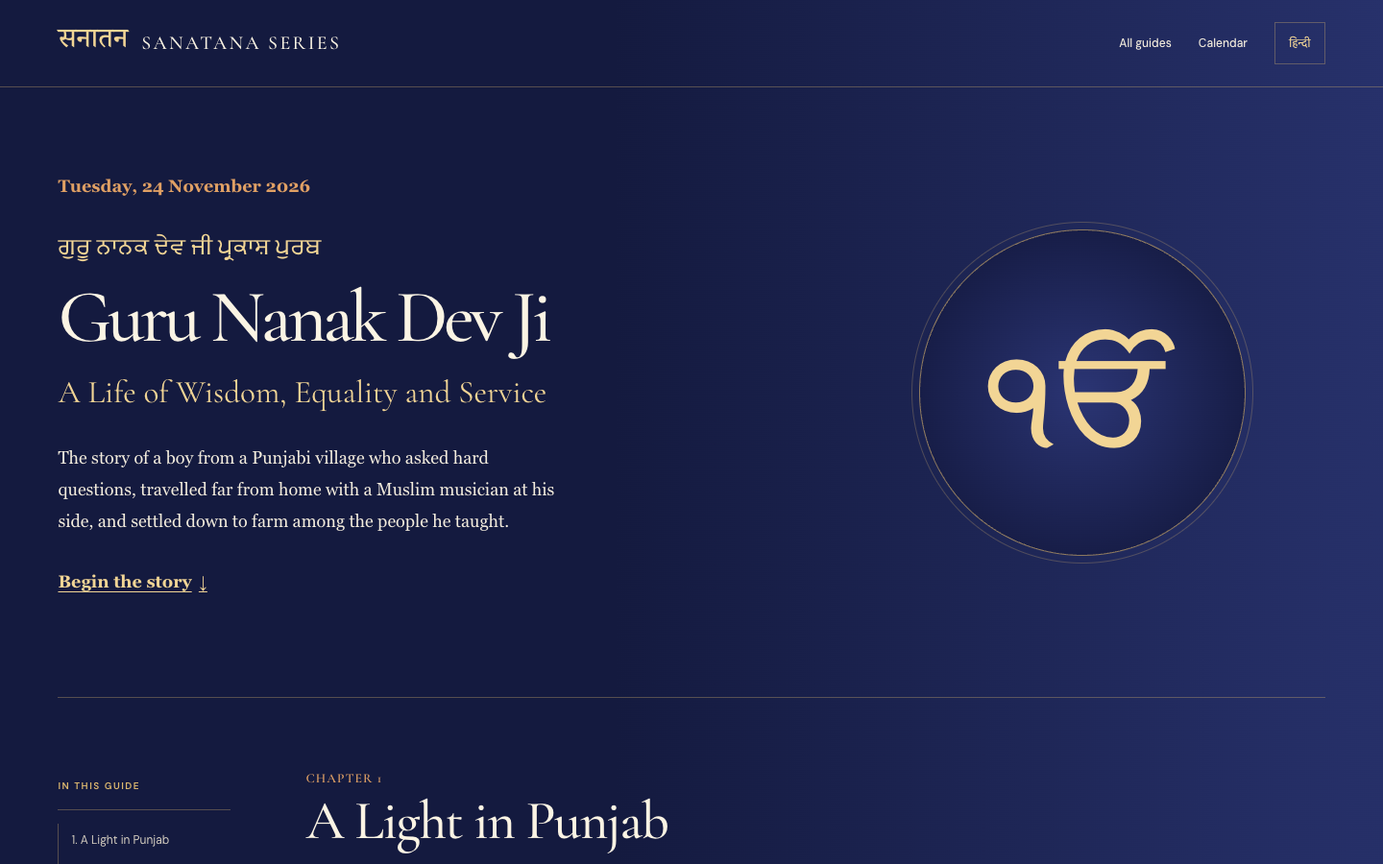
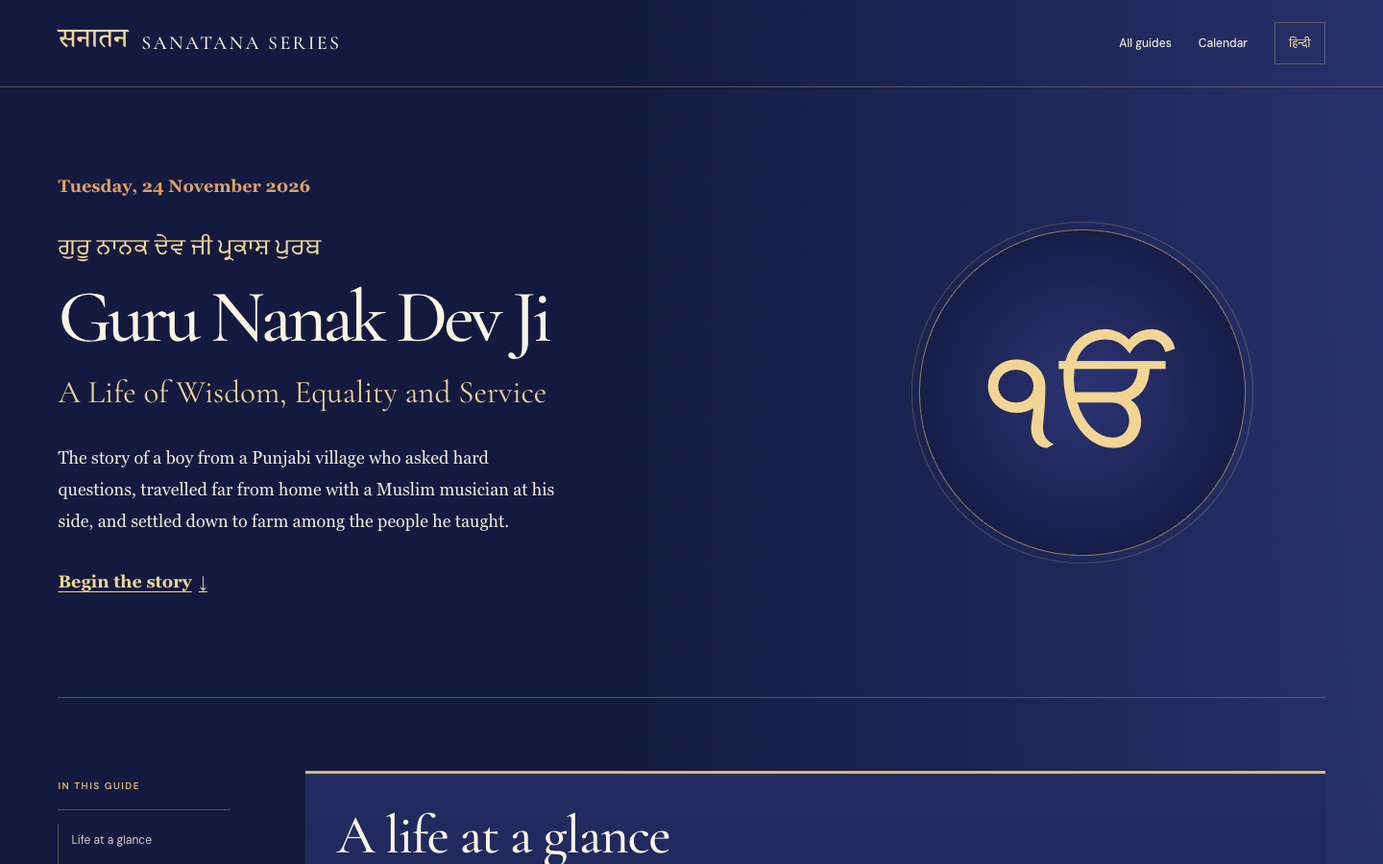
Move a visual timeline to the top of the Guru Nanak guide
Show the life and legacy as a linked journey in both editions, with
firm and approximate dates marked. Add a prompt pack for the guide's
twelve illustrations and social preview image.

Changed region(s): [[0.2188, 0.8711, 0.9375, 1.0], [0.0625, 0.9644, 0.125, 0.9956]]

diff --git a/guru-nanak-gurpurab-hi.html b/guru-nanak-gurpurab-hi.html
@@ -48,6 +48,7 @@
       <details class="toc-disclosure" open>
         <summary><span>इस गाइड में</span><span class="toc-toggle" aria-hidden="true">+</span></summary>
         <nav class="toc-links" aria-label="लेख की सामग्री">
+          <a href="#timeline">एक नज़र में जीवन</a>
           <a href="#light">1. पंजाब में एक प्रकाश</a>
           <a href="#questions">2. सवालों भरा बचपन</a>
           <a href="#sacha-sauda">3. सच्चा सौदा</a>
@@ -58,7 +59,6 @@
           <a href="#granth">8. श्री गुरु ग्रंथ साहिब जी</a>
           <a href="#gurpurab">9. गुरपुरब कैसे मनाते हैं</a>
           <a href="#legacy">10. जीवित विरासत</a>
-          <a href="#timeline">समयरेखा</a>
           <a href="#glossary">शब्दावली</a>
           <a href="#sources">स्रोत</a>
           <a href="#about">इस गाइड के बारे में</a>
@@ -66,6 +66,31 @@
       </details>
     </aside>
     <main id="content" tabindex="-1">
+<section class="chapter nanak-glance" id="timeline">
+  <h2>एक नज़र में जीवन</h2>
+  <p>पंजाब के एक गाँव से शाश्वत गुरु तक की यात्रा देखिए। किसी भी पड़ाव को चुनकर उसका अध्याय पढ़ें।</p>
+  <div class="nanak-eras">
+    <div class="nanak-era">
+      <h3>उनका जीवनकाल · 1469–1539</h3>
+      <ol class="nanak-stops">
+        <li class="nanak-stop"><a href="#light"><b>1469</b><strong>तलवंडी में जन्म</strong><span>आज का ननकाना साहिब</span></a></li>
+        <li class="nanak-stop is-approx"><a href="#sultanpur"><b>लगभग 1490 का दशक</b><strong>सुल्तानपुर लोधी</strong><span>काम, परिवार और बेईं नदी, परंपरा के अनुसार लगभग 1499–1500</span></a></li>
+        <li class="nanak-stop is-approx"><a href="#journeys"><b>लगभग 1500–1520 का दशक</b><strong>उदासियाँ</strong><span>भाई मरदाना के साथ महान यात्राएँ</span></a></li>
+        <li class="nanak-stop is-approx"><a href="#kartarpur"><b>लगभग 1520 का दशक</b><strong>करतारपुर</strong><span>रावी के किनारे खेती, संगत और लंगर</span></a></li>
+        <li class="nanak-stop"><a href="#kartarpur"><b>1539</b><strong>गुरु अंगद देव जी</strong><span>उत्तराधिकारी बने। सितंबर में गुरु नानक ज्योति-जोत समाए</span></a></li>
+      </ol>
+    </div>
+    <div class="nanak-era is-after">
+      <h3>उनके बाद</h3>
+      <ol class="nanak-stops">
+        <li class="nanak-stop"><a href="#granth"><b>1604</b><strong>आदि ग्रंथ</strong><span>गुरु अर्जन देव जी ने पूरा किया</span></a></li>
+        <li class="nanak-stop"><a href="#granth"><b>1708</b><strong>शाश्वत गुरु</strong><span>नांदेड़ में गुरुता सौंपी गई</span></a></li>
+      </ol>
+    </div>
+  </div>
+  <p class="nanak-legend" aria-label="समयरेखा की कुंजी"><span class="is-firm">पक्की तिथि</span> <span class="is-approx">अनुमानित, बाद की परंपरा से</span></p>
+</section>
+
 <section class="chapter" id="light">
   <h2><span class="chapter-number">अध्याय 1</span>पंजाब में एक प्रकाश</h2>
   <figure class="nanak-plate"><div class="nanak-pending"><b>चित्र प्रतीक्षित · चित्र 1</b><strong>गुरु नानक देव जी</strong><span>यह स्थान एक गरिमामय और श्रद्धापूर्ण चित्र के लिए सुरक्षित है, जो संपादकीय स्वीकृति के बाद ही लगेगा।</span></div></figure>
@@ -247,19 +272,6 @@
   <p>पाँच सदियाँ बीत गईं, पर करतारपुर की वह पंक्ति कभी सचमुच टूटी नहीं। वह आज भी पंजाब, ब्रिटेन, कनाडा, मलेशिया, केन्या और उससे भी दूर गुरुद्वारों की रसोइयों में हर दिन बैठती है। जब बाढ़, भूकंप या आंदोलन लोगों को भूखा छोड़ देते हैं, तो आटे और पतीलों के साथ सबसे पहले पहुँचने वालों में अक्सर सिख सेवादार होते हैं। वे वही कर रहे होते हैं जो कथा के अनुसार उनके पहले गुरु ने बीस रुपयों से किया था, और जो उनके समुदाय की स्मृति के अनुसार उन्होंने करतारपुर में बरसों तक किया।</p>
   <p>उनके सवाल भी ज़्यादा पुराने नहीं पड़े। हम आज भी लोगों को जन्म, धर्म और पैसे से छाँटते हैं। आज भी सोचते हैं कि दिन भर का असली मुनाफ़ा क्या है। आज भी ऐसे पड़ोसियों के बीच रहते हैं जिनसे दूर रहना हमें सिखाया गया है। गुरु नानक का उत्तर केवल एक विचार नहीं था। वह रोज़ के जीवन की एक व्यवस्था थी: ईमानदारी से कमाओ, उस एक को याद रखो, और जो भी आ जाए उसके साथ बैठकर खाओ।</p>
   <p>गुरपुरब की शाम दीये जलते हैं और देर तक शबद गूँजते हैं। अगली सुबह गुरुद्वारे की रसोई में कोई फिर भोर से पहले उठेगा, और जो भी उस दरवाज़े से आएगा, उसके लिए आटा गूँथने लगेगा।</p>
-</section>
-
-<section class="chapter" id="timeline">
-  <h2>संक्षिप्त समयरेखा</h2>
-  <ol class="nanak-timeline">
-    <li><b>1469</b><span>राय भोई दी तलवंडी, आज के ननकाना साहिब, में गुरु नानक का जन्म।</span></li>
-    <li><b>लगभग 1490 का दशक</b><span>सुल्तानपुर लोधी में जीवन और काम। परंपरा के अनुसार लगभग 1499–1500 में बेईं नदी का अनुभव। तिथियाँ अलग-अलग मिलती हैं।</span></li>
-    <li><b>लगभग 1500–1520 का दशक</b><span>उदासियाँ। इनके मार्ग और तिथियाँ मुख्यतः बाद की परंपरा से मिलती हैं।</span></li>
-    <li><b>लगभग 1520 का दशक</b><span>रावी के किनारे करतारपुर में बसना। वर्ष के बारे में स्रोत अलग-अलग हैं।</span></li>
-    <li><b>1539</b><span>गुरु अंगद देव जी उत्तराधिकारी बने। सितंबर में करतारपुर में गुरु नानक देव जी ज्योति-जोत समाए।</span></li>
-    <li><b>1604</b><span>गुरु अर्जन देव जी ने आदि ग्रंथ का संकलन पूरा किया।</span></li>
-    <li><b>1708</b><span>गुरु गोबिंद सिंह जी ने नांदेड़ में श्री गुरु ग्रंथ साहिब जी को शाश्वत गुरुता सौंपी।</span></li>
-  </ol>
 </section>
 
 <section class="chapter" id="glossary">

diff --git a/guru-nanak-gurpurab.html b/guru-nanak-gurpurab.html
@@ -48,6 +48,7 @@
       <details class="toc-disclosure" open>
         <summary><span>In this guide</span><span class="toc-toggle" aria-hidden="true">+</span></summary>
         <nav class="toc-links" aria-label="Article contents">
+          <a href="#timeline">Life at a glance</a>
           <a href="#light">1. A Light in Punjab</a>
           <a href="#questions">2. A Childhood of Questions</a>
           <a href="#sacha-sauda">3. The True Bargain</a>
@@ -58,7 +59,6 @@
           <a href="#granth">8. Sri Guru Granth Sahib Ji</a>
           <a href="#gurpurab">9. How Gurpurab Is Celebrated</a>
           <a href="#legacy">10. The Living Legacy</a>
-          <a href="#timeline">Timeline</a>
           <a href="#glossary">Glossary</a>
           <a href="#sources">Sources</a>
           <a href="#about">About this guide</a>
@@ -66,6 +66,31 @@
       </details>
     </aside>
     <main id="content" tabindex="-1">
+<section class="chapter nanak-glance" id="timeline">
+  <h2>A life at a glance</h2>
+  <p>Follow the journey from a Punjabi village to an eternal Guru. Select any stop to read its chapter.</p>
+  <div class="nanak-eras">
+    <div class="nanak-era">
+      <h3>His lifetime · 1469–1539</h3>
+      <ol class="nanak-stops">
+        <li class="nanak-stop"><a href="#light"><b>1469</b><strong>Birth at Talwandi</strong><span>Now Nankana Sahib</span></a></li>
+        <li class="nanak-stop is-approx"><a href="#sultanpur"><b>c. 1490s</b><strong>Sultanpur Lodhi</strong><span>Work, family, and the Bein River, by tradition c. 1499–1500</span></a></li>
+        <li class="nanak-stop is-approx"><a href="#journeys"><b>c. 1500–1520s</b><strong>The Udasis</strong><span>Great journeys with Bhai Mardana</span></a></li>
+        <li class="nanak-stop is-approx"><a href="#kartarpur"><b>c. 1520s</b><strong>Kartarpur</strong><span>Farming, sangat and langar on the Ravi</span></a></li>
+        <li class="nanak-stop"><a href="#kartarpur"><b>1539</b><strong>Guru Angad Dev Ji</strong><span>Named successor. Guru Nanak dies in September</span></a></li>
+      </ol>
+    </div>
+    <div class="nanak-era is-after">
+      <h3>After him</h3>
+      <ol class="nanak-stops">
+        <li class="nanak-stop"><a href="#granth"><b>1604</b><strong>Adi Granth</strong><span>Completed by Guru Arjan Dev Ji</span></a></li>
+        <li class="nanak-stop"><a href="#granth"><b>1708</b><strong>The Eternal Guru</strong><span>Guruship conferred at Nanded</span></a></li>
+      </ol>
+    </div>
+  </div>
+  <p class="nanak-legend" aria-label="Timeline key"><span class="is-firm">Firmly dated</span> <span class="is-approx">Approximate, from later tradition</span></p>
+</section>
+
 <section class="chapter" id="light">
   <h2><span class="chapter-number">Chapter 1</span>A Light in Punjab</h2>
   <figure class="nanak-plate"><div class="nanak-pending"><b>ILLUSTRATION PENDING · PLATE 1</b><strong>Guru Nanak Dev Ji</strong><span>A dignified, reverent portrait is reserved for this space, subject to editorial approval.</span></div></figure>
@@ -244,19 +269,6 @@
   <p>Five centuries on, the row at Kartarpur has never really ended. It continues every day in gurdwara kitchens across Punjab, Britain, Canada, Malaysia, Kenya and well beyond. When floods, earthquakes or protests leave people hungry, Sikh volunteers are often among the first to arrive with pots and flour. They are doing what their first Guru did with twenty rupees, according to the story, and what he did for years at Kartarpur, according to the memory of his community.</p>
   <p>His questions have not aged much either. We still sort people by birth, by faith, and by money. We still wonder what counts as a good day’s profit. We still live among neighbours we have been taught to keep at a distance. Guru Nanak’s response was never only an idea. It was an arrangement of daily life: earn honestly, remember the One, and sit down to eat with whoever has come.</p>
   <p>On the evening of Gurpurab, lamps are lit and the hymns go on late. The next morning, someone in the gurdwara kitchen will be up before dawn again, kneading the flour for whoever comes through the door.</p>
-</section>
-
-<section class="chapter" id="timeline">
-  <h2>A short timeline</h2>
-  <ol class="nanak-timeline">
-    <li><b>1469</b><span>Birth of Guru Nanak at Rai Bhoi di Talwandi, now Nankana Sahib.</span></li>
-    <li><b>c. 1490s</b><span>Life and work at Sultanpur Lodhi. The Bein River experience follows, by tradition around 1499–1500. Dates vary.</span></li>
-    <li><b>c. 1500–1520s</b><span>The Udasis. Their routes and dates come largely from later tradition.</span></li>
-    <li><b>c. 1520s</b><span>Settlement at Kartarpur on the Ravi. Sources differ on the year.</span></li>
-    <li><b>1539</b><span>Guru Angad Dev Ji named successor. Guru Nanak Dev Ji dies at Kartarpur in September.</span></li>
-    <li><b>1604</b><span>Guru Arjan Dev Ji completes the Adi Granth.</span></li>
-    <li><b>1708</b><span>Guru Gobind Singh Ji confers eternal Guruship on Sri Guru Granth Sahib Ji at Nanded.</span></li>
-  </ol>
 </section>
 
 <section class="chapter" id="glossary">

diff --git a/guru-nanak-gurpurab.css b/guru-nanak-gurpurab.css
@@ -160,15 +160,83 @@
 .guide-nanak.hi .nanak-pending strong { font-family: var(--hindi); line-height: 1.55; }
 .guide-nanak .nanak-pending span { max-width: 62ch; color: var(--muted); font-size: .95rem; }
 
-.guide-nanak .nanak-timeline { display: grid; gap: 0; margin: 1.3rem 0; padding: 0; list-style: none; }
-.guide-nanak .nanak-timeline li {
-  display: grid;
-  grid-template-columns: 7.5rem minmax(0, 1fr);
-  gap: 1rem;
-  padding: .7rem 0;
-  border-bottom: 1px solid var(--line);
+/* Visual timeline: a vertical path on small screens, a horizontal journey on wide ones. */
+.guide-nanak .nanak-glance {
+  padding: clamp(1.2rem, 3vw, 2rem);
+  background: linear-gradient(180deg, #222c62 0%, #182049 100%);
+  border-block-start: 3px solid var(--gold);
 }
-.guide-nanak .nanak-timeline b { color: var(--gold-light); }
+.guide-nanak .nanak-eras { display: grid; gap: 1.5rem; margin-top: 1.4rem; }
+.guide-nanak .chapter .nanak-era h3 {
+  margin: 0 0 .8rem;
+  color: var(--saffron);
+  font: 700 .95rem/1.4 var(--ui, inherit);
+}
+.guide-nanak .nanak-stops { position: relative; display: grid; margin: 0; padding: 0; list-style: none; }
+.guide-nanak .nanak-stops::before {
+  content: "";
+  position: absolute;
+  inset: .7rem auto .7rem .55rem;
+  border-inline-start: 2px solid var(--gold);
+}
+.guide-nanak .is-after .nanak-stops::before { border-inline-start-style: dashed; }
+.guide-nanak .nanak-stop { position: relative; margin: 0; padding: 0; }
+.guide-nanak .nanak-stop::marker { content: ""; }
+.guide-nanak .nanak-stop a {
+  display: grid;
+  gap: .08rem;
+  min-height: 44px;
+  padding: .55rem .6rem .7rem 2.2rem;
+  color: var(--text);
+  text-decoration: none;
+  overflow-wrap: normal;
+}
+.guide-nanak .chapter .nanak-stop a { text-decoration: none; }
+.guide-nanak .nanak-stop a:hover { background: #ffffff12; }
+.guide-nanak .chapter .nanak-stop a:hover strong { text-decoration: underline; text-underline-offset: .18em; }
+.guide-nanak .nanak-stop a::before {
+  content: "";
+  position: absolute;
+  top: .78rem;
+  left: .15rem;
+  width: .95rem;
+  height: .95rem;
+  background: var(--gold-light);
+  border: 2px solid var(--gold-light);
+  border-radius: 50%;
+  box-shadow: 0 0 0 4px #1d2658;
+}
+.guide-nanak .nanak-stop.is-approx a::before { background: #1d2658; }
+.guide-nanak .nanak-stop b { color: var(--gold-light); font-size: 1.02rem; line-height: 1.4; }
+.guide-nanak .nanak-stop strong { color: var(--ivory); font-size: 1.05rem; line-height: 1.35; }
+.guide-nanak .nanak-stop span { color: var(--muted); font-size: .92rem; line-height: 1.45; }
+.guide-nanak .nanak-legend { display: flex; flex-wrap: wrap; gap: .4rem 1.4rem; margin: 1.2rem 0 0; color: var(--muted); font-size: .9rem; }
+.guide-nanak .nanak-legend span { display: inline-flex; align-items: center; gap: .45rem; }
+.guide-nanak .nanak-legend span::before {
+  content: "";
+  width: .75rem;
+  height: .75rem;
+  border: 2px solid var(--gold-light);
+  border-radius: 50%;
+}
+.guide-nanak .nanak-legend .is-firm::before { background: var(--gold-light); }
+
+@media (min-width: 1180px) {
+  .guide-nanak .nanak-eras { grid-template-columns: minmax(0, 5fr) minmax(0, 2fr); gap: .9rem; }
+  .guide-nanak .nanak-era .nanak-stops { grid-template-columns: repeat(5, minmax(0, 1fr)); }
+  .guide-nanak .nanak-era.is-after .nanak-stops { grid-template-columns: repeat(2, minmax(0, 1fr)); }
+  .guide-nanak .nanak-stops::before {
+    inset: .55rem 0 auto 0;
+    border-inline-start: 0;
+    border-block-start: 2px solid var(--gold);
+  }
+  .guide-nanak .is-after .nanak-stops::before { border-inline-start: 0; border-block-start-style: dashed; }
+  .guide-nanak .nanak-stop a { height: 100%; align-content: start; padding: 1.8rem .55rem .7rem .15rem; }
+  .guide-nanak .nanak-stop a::before { top: .12rem; left: .15rem; }
+  .guide-nanak .nanak-stop b { font-size: .95rem; }
+  .guide-nanak .nanak-stop strong { font-size: 1rem; }
+  .guide-nanak .nanak-stop span { font-size: .86rem; }
+}
 
 .guide-nanak .nanak-glossary { display: grid; grid-template-columns: repeat(2, minmax(0, 1fr)); gap: .3rem 1.6rem; }
 .guide-nanak .nanak-glossary div { padding: .6rem 0; border-bottom: 1px solid var(--line); }
@@ -180,7 +248,6 @@
   .guide-nanak .nanak-keys,
   .guide-nanak .nanak-glossary { grid-template-columns: 1fr; }
   .guide-nanak .nanak-emblem { max-width: 190px; font-size: 5.6rem; order: -1; }
-  .guide-nanak .nanak-timeline li { grid-template-columns: 1fr; gap: .1rem; }
   .guide-nanak .navlinks a { min-height: 44px; }
 }
 

diff --git a/docs/guru-nanak-gurpurab/image-prompt-pack.md b/docs/guru-nanak-gurpurab/image-prompt-pack.md
@@ -1,0 +1,119 @@
+# Guru Nanak Dev Ji: image prompt pack
+
+Thirteen ready-to-paste prompts: 12 guide illustrations and 1 social preview image.
+
+## How to use this pack
+
+1. Generate one image at a time, in **landscape 3:2**. Image 13 is **wide, about 1.91:1**.
+2. Paste the finished image into the chat and say which number it is, for example "Image 5".
+3. I will inspect it, optimise it, place it in both editions and write its English and Hindi alt text.
+
+**The Guru's face:** these prompts follow the respectful default of not showing Guru Nanak Dev Ji's face, because many Sikhs object to depicting the Gurus. He appears only from behind or at a distance in Images 1, 3, 5 and 6.
+
+**Reject an image if it has:** any writing or fake Gurmukhi, a visible face for the Guru, a halo, a Hindu or Islamic symbol, temple architecture, modern objects, distorted hands, or a Khanda or Khalsa dress in Images 1 to 8.
+
+---
+
+## Image 1: Guru Nanak Dev Ji
+
+`portrait` · Chapter 1
+
+```text
+A reverent heritage painting of Guru Nanak Dev Ji seen entirely from behind, an elderly bearded teacher with white hair beneath a simple plain cloth head-wrap, wearing a long undyed cotton robe and a plain shawl, standing still at the edge of a quiet Punjabi field at first light, looking toward a wide glowing horizon. His face is not visible at all. Calm, humble and contemplative mood, generous empty sky, early morning mist over the wheat. Refined painting in the spirit of early Punjab manuscript and miniature art, gouache and natural pigments on handmade ivory wasli paper, fine brushwork, soft atmospheric light, restrained palette of ivory, deep indigo, muted saffron and warm gold. Landscape 3:2. No visible face, no halo or glowing aura around the figure. No text, letters, numerals, script, signature, watermark, logo or border. No deities, temples, Om, lotus, crescent, Khanda or other religious symbols. No comic-book, anime, cartoon, 3D or photographic look.
+```
+
+## Image 2: Early Punjab and Talwandi
+
+`talwandi` · Chapter 1
+
+```text
+A fifteenth-century village in the flat plains of Punjab at first light, low mud-brick homes with flat roofs and plastered walls, a brick-lined village well, a bullock resting by a cart, fields of young wheat, a line of shisham and kikar trees, thin smoke rising from a cooking fire, two tiny villagers walking in the distance. Peaceful, lived-in and historically grounded, with a wide horizon and no hills. Refined heritage painting in the spirit of early Punjab manuscript and miniature art, gouache and natural pigments on handmade ivory wasli paper, fine brushwork, soft atmospheric light, restrained palette of ivory, deep indigo, muted saffron and warm gold. Landscape 3:2. No temples, mosques, domes, palaces or modern objects. No text, letters, numerals, script, signature, watermark, logo or border. No deities, halos, Om, lotus, crescent, Khanda or other religious symbols. No comic-book, anime, cartoon, 3D or photographic look.
+```
+
+## Image 3: The True Bargain (Sacha Sauda)
+
+`sacha-sauda` · Chapter 3
+
+```text
+A quiet scene at the edge of a forest in fifteenth-century Punjab: a young man seen from behind, in a simple undyed cotton kurta and plain cloth head-wrap, kneels and hands bowls of food to a small group of thin, weary travelling ascetics seated beneath a large old tree. Sacks of flour and lentils, a clay pot and a small cooking fire nearby. The young man's face is not visible. The ascetics wear plain faded cloth and show gratitude and exhaustion with dignity. Warm late-afternoon light, tender and unsentimental. Refined heritage painting in the spirit of early Punjab manuscript and miniature art, gouache and natural pigments on handmade ivory wasli paper, fine brushwork, restrained palette of ivory, deep indigo, muted saffron and warm gold. Landscape 3:2. No miracle imagery, halo or glow. No text, letters, numerals, script, signature, watermark, logo or border. No deities, temples, Om, tilak, lotus, crescent, Khanda or other religious symbols. No comic-book, anime, cartoon, 3D or photographic look.
+```
+
+## Image 4: The Bein at Dawn
+
+`bein` · Chapter 4
+
+```text
+The small, still Bein River at Sultanpur Lodhi in Punjab at dawn, a narrow slow-moving stream with low earthen banks, reeds, overhanging trees and pale mist on the water, the first soft light reflected on its surface. A single folded plain cloth rests on the empty bank. No people. Deeply quiet, spacious and contemplative. Refined heritage painting in the spirit of early Punjab manuscript and miniature art, gouache and natural pigments on handmade ivory wasli paper, fine brushwork, soft atmospheric light, restrained palette of ivory, deep indigo, muted saffron and warm gold. Landscape 3:2. Not the Ganga: no wide river, stone ghats, steps, boats, temples or buildings. No text, letters, numerals, script, signature, watermark, logo or border. No deities, halos, divine light rays, Om, lotus, crescent, Khanda or other religious symbols. No comic-book, anime, cartoon, 3D or photographic look.
+```
+
+## Image 5: Guru Nanak Dev Ji and Bhai Mardana Ji
+
+`mardana` · Chapter 5
+
+```text
+Two elderly travelling companions in early sixteenth-century Punjab resting at dusk beneath a tree, both seen from behind and slightly to one side so that neither face is visible. One sits in stillness in a long undyed cotton robe and plain head-wrap. Beside him, a Muslim musician in simple dark-toned cotton clothing and a modest cap tunes a traditional rabab, a short-necked plucked lute with a waisted carved wooden body and skin-covered belly. Worn cloth bundles and walking staffs lie nearby, with a long empty road fading into the evening. Warm friendship, humility and music. Refined heritage painting in the spirit of early Punjab manuscript and miniature art, gouache and natural pigments on handmade ivory wasli paper, fine brushwork, soft dusk light, restrained palette of ivory, deep indigo, muted saffron and warm gold. Landscape 3:2. Not a sitar, veena, guitar or modern instrument. No halo or glow. No text, letters, numerals, script, signature, watermark, logo or border. No deities, temples, Om, lotus, crescent, Khanda or other religious symbols. No comic-book, anime, cartoon, 3D or photographic look.
+```
+
+## Image 6: The Udasis
+
+`udasis` · Chapter 5
+
+```text
+A vast sweeping landscape of a long journey across South Asia in the early sixteenth century: a thin dusty road winding across golden plains, past a distant river, toward layered blue Himalayan mountains under a huge sky. Two very small travellers with walking staffs are seen from far behind, one carrying a small stringed instrument on his back, their faces not visible. A sense of distance, endurance and quiet purpose. Refined heritage painting in the spirit of early Punjab manuscript and miniature art, gouache and natural pigments on handmade ivory wasli paper, fine brushwork, soft atmospheric perspective, restrained palette of ivory, deep indigo, muted saffron and warm gold. Landscape 3:2. No identifiable shrines, temples, mosques, cities or maps. No text, letters, numerals, script, signature, watermark, logo or border. No deities, halos, Om, lotus, crescent, Khanda or other religious symbols. No comic-book, anime, cartoon, 3D or photographic look.
+```
+
+## Image 7: The Kartarpur Community
+
+`kartarpur` · Chapter 7
+
+```text
+A modest farming settlement on the bank of the Ravi River in Punjab in the 1530s, seen from a gentle distance at the end of the day: simple mud-brick and thatch dwellings, a shared open courtyard, irrigated green fields, a Persian wheel at a well, bullocks returning home, and small groups of ordinary men, women and children walking in from work and gathering together. Peaceful, cooperative and humble. Refined heritage painting in the spirit of early Punjab manuscript and miniature art, gouache and natural pigments on handmade ivory wasli paper, fine brushwork, golden evening light, restrained palette of ivory, deep indigo, muted saffron and warm gold. Landscape 3:2. No domes, grand buildings, the modern Kartarpur gurdwara, or temples. No central holy figure. No text, letters, numerals, script, signature, watermark, logo or border. No deities, halos, Om, lotus, crescent, Khanda, flags or other religious symbols. No comic-book, anime, cartoon, 3D or photographic look.
+```
+
+## Image 8: Honest Work and Shared Meals
+
+`work-meal` · Chapter 7
+
+```text
+A sixteenth-century Punjabi farming community sharing a simple meal at the edge of a harvested field. Men and women of different ages and social backgrounds, in plain cotton clothes of varied humble styles, sit together in one straight row on the ground at the same level, eating roti and dal from simple leaf plates and clay bowls while two people serve them. Sickles and bundles of wheat rest nearby, with workers still in the field behind. Dignified, warm and egalitarian, with no one placed above another. Refined heritage painting in the spirit of early Punjab manuscript and miniature art, gouache and natural pigments on handmade ivory wasli paper, fine brushwork, soft late-day light, restrained palette of ivory, deep indigo, muted saffron and warm gold. Landscape 3:2. No meat or alcohol. No central holy figure. No text, letters, numerals, script, signature, watermark, logo or border. No deities, halos, tilak, Om, lotus, crescent, Khanda or other religious symbols. No comic-book, anime, cartoon, 3D or photographic look.
+```
+
+## Image 9: Sri Guru Granth Sahib Ji
+
+`granth` · Chapter 8
+
+```text
+A deeply reverent view from a respectful distance inside a serene, softly lit gurdwara hall: Sri Guru Granth Sahib Ji resting on a raised palki platform beneath an embroidered canopy (chandoa), fully covered with fine rumala cloths in deep indigo, ivory and muted gold, so that no pages or writing can be seen. Fresh flowers are placed modestly at the base, and clean floor coverings lead toward it. No people. Still, luminous and sacred without being theatrical. Refined heritage painting with fine brushwork in gouache and natural pigments on ivory wasli paper, soft warm light, restrained palette of ivory, deep indigo, muted saffron and warm gold. Landscape 3:2. The scripture must be closed or fully covered, elevated, never on the floor. No open book, pages, text, letters, numerals, script, signature, watermark, logo or border. No idols, deities, portraits, halos, light rays, temple shrine, Om, lotus, crescent or added symbols. No shoes. No comic-book, anime, cartoon, 3D or photographic look.
+```
+
+## Image 10: Gurbani Kirtan
+
+`kirtan` · Chapter 9
+
+```text
+Gurbani kirtan inside a gurdwara hall: three ragis in simple white kurtas and neatly tied turbans sit cross-legged on a low platform, playing two harmoniums and a pair of tabla with natural, correctly formed hands. In the foreground, the sangat of men, women and children sits on the carpeted floor, seen mostly from behind, every head covered with a turban, patka or chunni, and no shoes anywhere. Soft golden light, a feeling of absorbed, peaceful listening. Refined heritage painting with fine brushwork in gouache and natural pigments on ivory wasli paper, restrained palette of ivory, deep indigo, muted saffron and warm gold. Landscape 3:2. No idols, deities, portraits, temple shrine or microphones. No text, letters, numerals, script, signature, watermark, logo, banner or border. No halos, Om, lotus, crescent or added symbols. No comic-book, anime, cartoon, 3D or photographic look.
+```
+
+## Image 11: Nagar Kirtan
+
+`nagar-kirtan` · Chapter 9
+
+```text
+A Nagar Kirtan procession moving along a street in a Punjabi town in soft morning light. At the front walk exactly five Panj Pyare in single file, in matching long saffron cholas with blue sashes and matching saffron turbans, each with a sheathed kirpan worn at the side, walking barefoot with solemn dignity. Behind them comes a flower-decorated float with a canopy, its sacred seat fully covered in cloth. Volunteers sweep the road ahead, and families with covered heads line the street, joyful and respectful. Refined heritage painting with fine brushwork in gouache and natural pigments on ivory wasli paper, restrained palette of ivory, deep indigo, muted saffron and warm gold. Landscape 3:2. Exactly five Panj Pyare. No drawn swords or weapons raised. No flags, banners, signs or emblems. No text, letters, numerals, script, signature, watermark, logo or border. No idols, deities, halos, Om, lotus, crescent or added symbols. No comic-book, anime, cartoon, 3D or photographic look.
+```
+
+## Image 12: Langar and Seva
+
+`langar` · Chapter 9
+
+```text
+Langar in a large gurdwara dining hall: people of every age, background and walk of life sit side by side in long straight rows on floor mats, all at the same level, every head covered with a turban, patka, scarf or chunni. Volunteers walk along the rows serving dal and roti from steel buckets onto steel thalis, with natural hands and warm, humble expressions. Large cooking pots and people rolling rotis are visible in the background. Busy, joyful and deeply egalitarian. Refined heritage painting with fine brushwork in gouache and natural pigments on ivory wasli paper, warm light, restrained palette of ivory, deep indigo, muted saffron and warm gold. Landscape 3:2. Vegetarian food only, no meat, eggs or alcohol. No shoes in the dining rows. No text, letters, numerals, script, signature, watermark, logo, banner or border. No idols, deities, halos, Om, lotus, crescent or added symbols. No comic-book, anime, cartoon, 3D or photographic look.
+```
+
+## Image 13: Social preview
+
+`social` · Link preview when the guide is shared
+
+```text
+A wide, serene landscape of the Punjab plains at sunrise for a website banner: golden wheat fields in the foreground, a slow river curving through the middle distance, a single line of trees, and a vast deep-indigo sky warming to saffron and gold at the horizon. No people. Strong, simple composition with calm open space in the left half. Refined heritage painting in the spirit of early Punjab manuscript and miniature art, gouache and natural pigments on handmade ivory wasli paper, fine brushwork, restrained palette of ivory, deep indigo, muted saffron and warm gold. Wide format, 1.91:1. No buildings. No text, letters, numerals, script, signature, watermark, logo or border. No deities, halos, Om, lotus, crescent, Khanda or other religious symbols. No comic-book, anime, cartoon, 3D or photographic look.
+```
